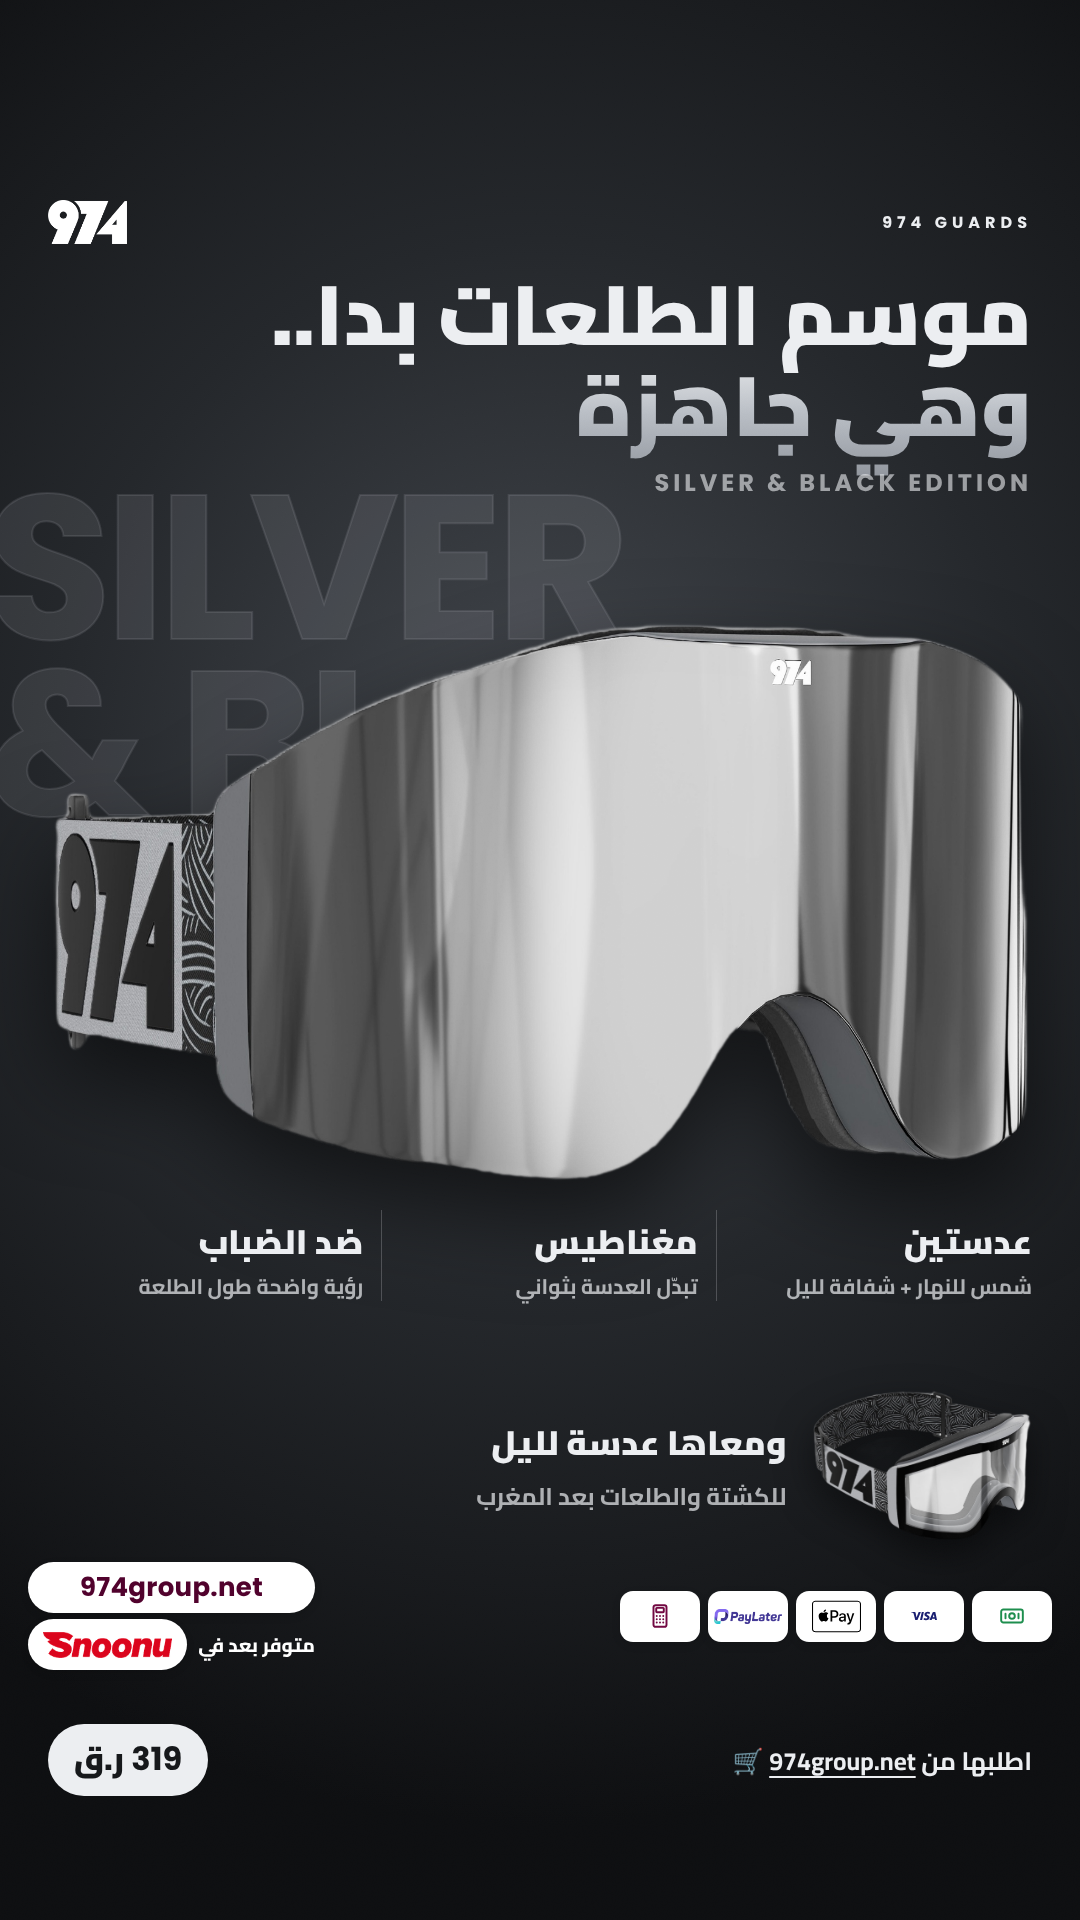
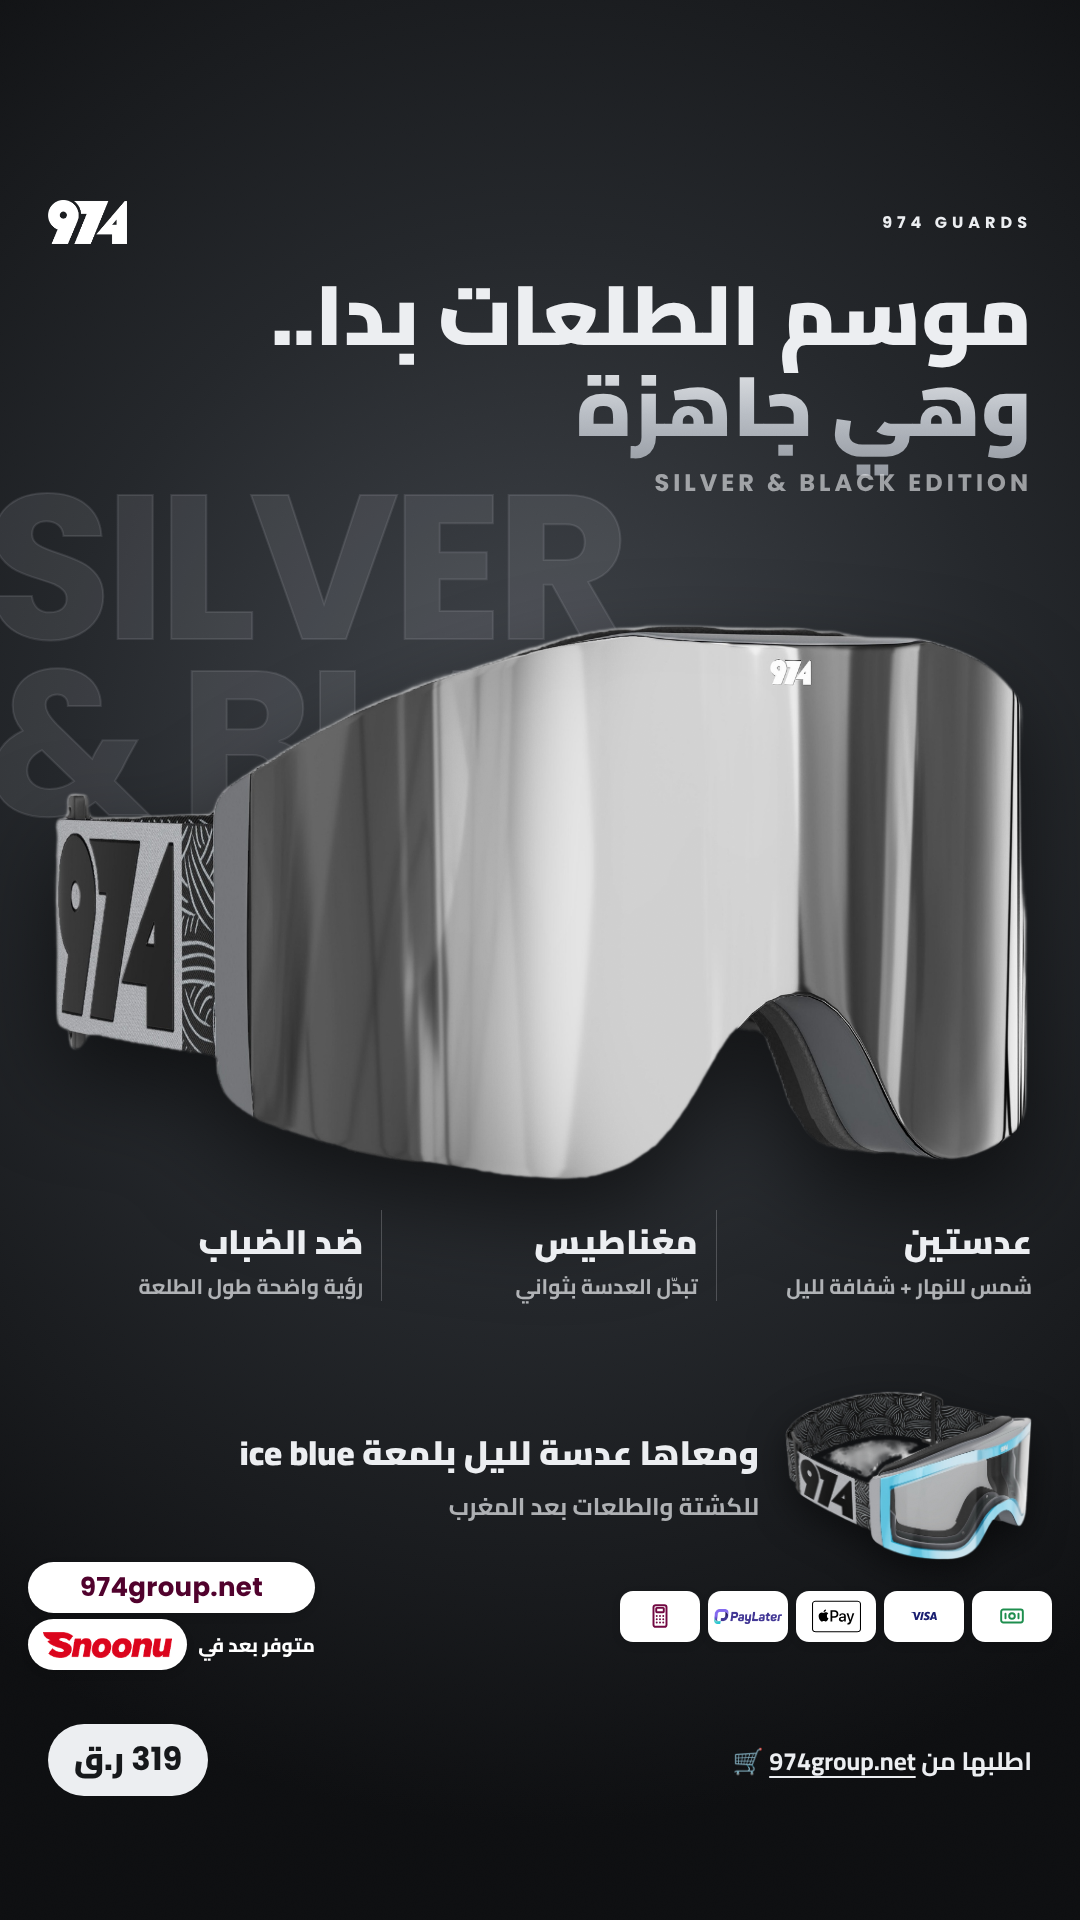
Silver & Black story: ice-blue night lens photo
Claude-Session: https://claude.ai/code/session_01K6HDWNrArsGSJekW1VcEzV

Changed region(s): [[0.2139, 0.7188, 0.9778, 0.8125]]

diff --git a/posts/2026-11/silver-black-goggles/out/974-silver-black-story.html b/posts/2026-11/silver-black-goggles/out/974-silver-black-story.html
@@ -43,8 +43,8 @@ body{width:1080px;height:1920px;background:radial-gradient(90% 55% at 50% 40%,#4
 </div>
 <img class="abs hero" src="file:///home/claude/974-social/posts/2026-11/silver-black-goggles/cut/0c.png" style="left:50px;top:620px;width:980px">
 <div class="abs fts" style="top:1210px"><div class="ft"><b>عدستين</b><span>شمس للنهار + شفافة لليل</span></div><div class="ft"><b>مغناطيس</b><span>تبدّل العدسة بثواني</span></div><div class="ft"><b>ضد الضباب</b><span>رؤية واضحة طول الطلعة</span></div></div><div class="abs ar" style="right:48px;left:48px;top:1390px;display:flex;align-items:center;gap:26px;direction:rtl">
- <img src="file:///home/claude/974-social/posts/2026-11/silver-black-goggles/cut/2c.png" style="height:150px;filter:drop-shadow(0 14px 18px rgba(0,0,0,.5))">
- <div><div style="font-weight:900;font-size:34px">ومعاها عدسة لليل</div><div style="font-weight:700;font-size:24px;opacity:.7">للكشتة والطلعات بعد المغرب</div></div></div><div class="grain"></div>
+ <img src="file:///home/claude/974-social/posts/2026-11/silver-black-goggles/cut/3c.png" style="height:170px;filter:drop-shadow(0 14px 18px rgba(0,0,0,.5))">
+ <div><div style="font-weight:900;font-size:34px">ومعاها عدسة لليل بلمعة ice blue</div><div style="font-weight:700;font-size:24px;opacity:.7">للكشتة والطلعات بعد المغرب</div></div></div><div class="grain"></div>
 <div class="top"><img src="file:///home/claude/974-social/posts/2026-11/pilates-socks/src/logo-white.png"><span>974 GUARDS</span></div>
 <div class="pf"><div class="payfoot"><div class="pills">
 <div class="ch"><div class="lg"><svg viewBox="0 0 24 24" style="height:54px" fill="none" stroke="#1E8E4E" stroke-width="1.8" stroke-linecap="round" stroke-linejoin="round"><rect x="2" y="6" width="20" height="12" rx="2"/><circle cx="12" cy="12" r="2.6"/><path d="M6 10v4M18 10v4"/></svg></div><i>كاش</i></div>

diff --git a/posts/2026-11/silver-black-goggles/gen.py b/posts/2026-11/silver-black-goggles/gen.py
@@ -21,8 +21,8 @@ def g(story=False):
 <div class="abs fts" style="top:{o+(1060 if story else 960)}px">{fe}</div>'''
     if story:
         body += f'''<div class="abs ar" style="right:48px;left:48px;top:{o+1240}px;display:flex;align-items:center;gap:26px;direction:rtl">
- <img src="file://{C}2c.png" style="height:150px;filter:drop-shadow(0 14px 18px rgba(0,0,0,.5))">
- <div><div style="font-weight:900;font-size:34px">ومعاها عدسة لليل</div><div style="font-weight:700;font-size:24px;opacity:.7">للكشتة والطلعات بعد المغرب</div></div></div>'''
+ <img src="file://{C}3c.png" style="height:170px;filter:drop-shadow(0 14px 18px rgba(0,0,0,.5))">
+ <div><div style="font-weight:900;font-size:34px">ومعاها عدسة لليل بلمعة ice blue</div><div style="font-weight:700;font-size:24px;opacity:.7">للكشتة والطلعات بعد المغرب</div></div></div>'''
     extra = f'''.sil{{background:linear-gradient(180deg,#FFFFFF 0%,#B9BEC5 55%,#8C9199 100%);-webkit-background-clip:text;background-clip:text;color:transparent}}
 .hero{{filter:drop-shadow(0 40px 46px rgba(0,0,0,.6))}}
 .fts{{left:48px;right:48px;display:flex;direction:rtl}} .ft{{flex:1;padding:0 18px;border-left:1.5px solid rgba(236,238,241,.22);text-align:right}} .ft:last-child{{border-left:none}} .ft:first-child{{padding-right:0}}
